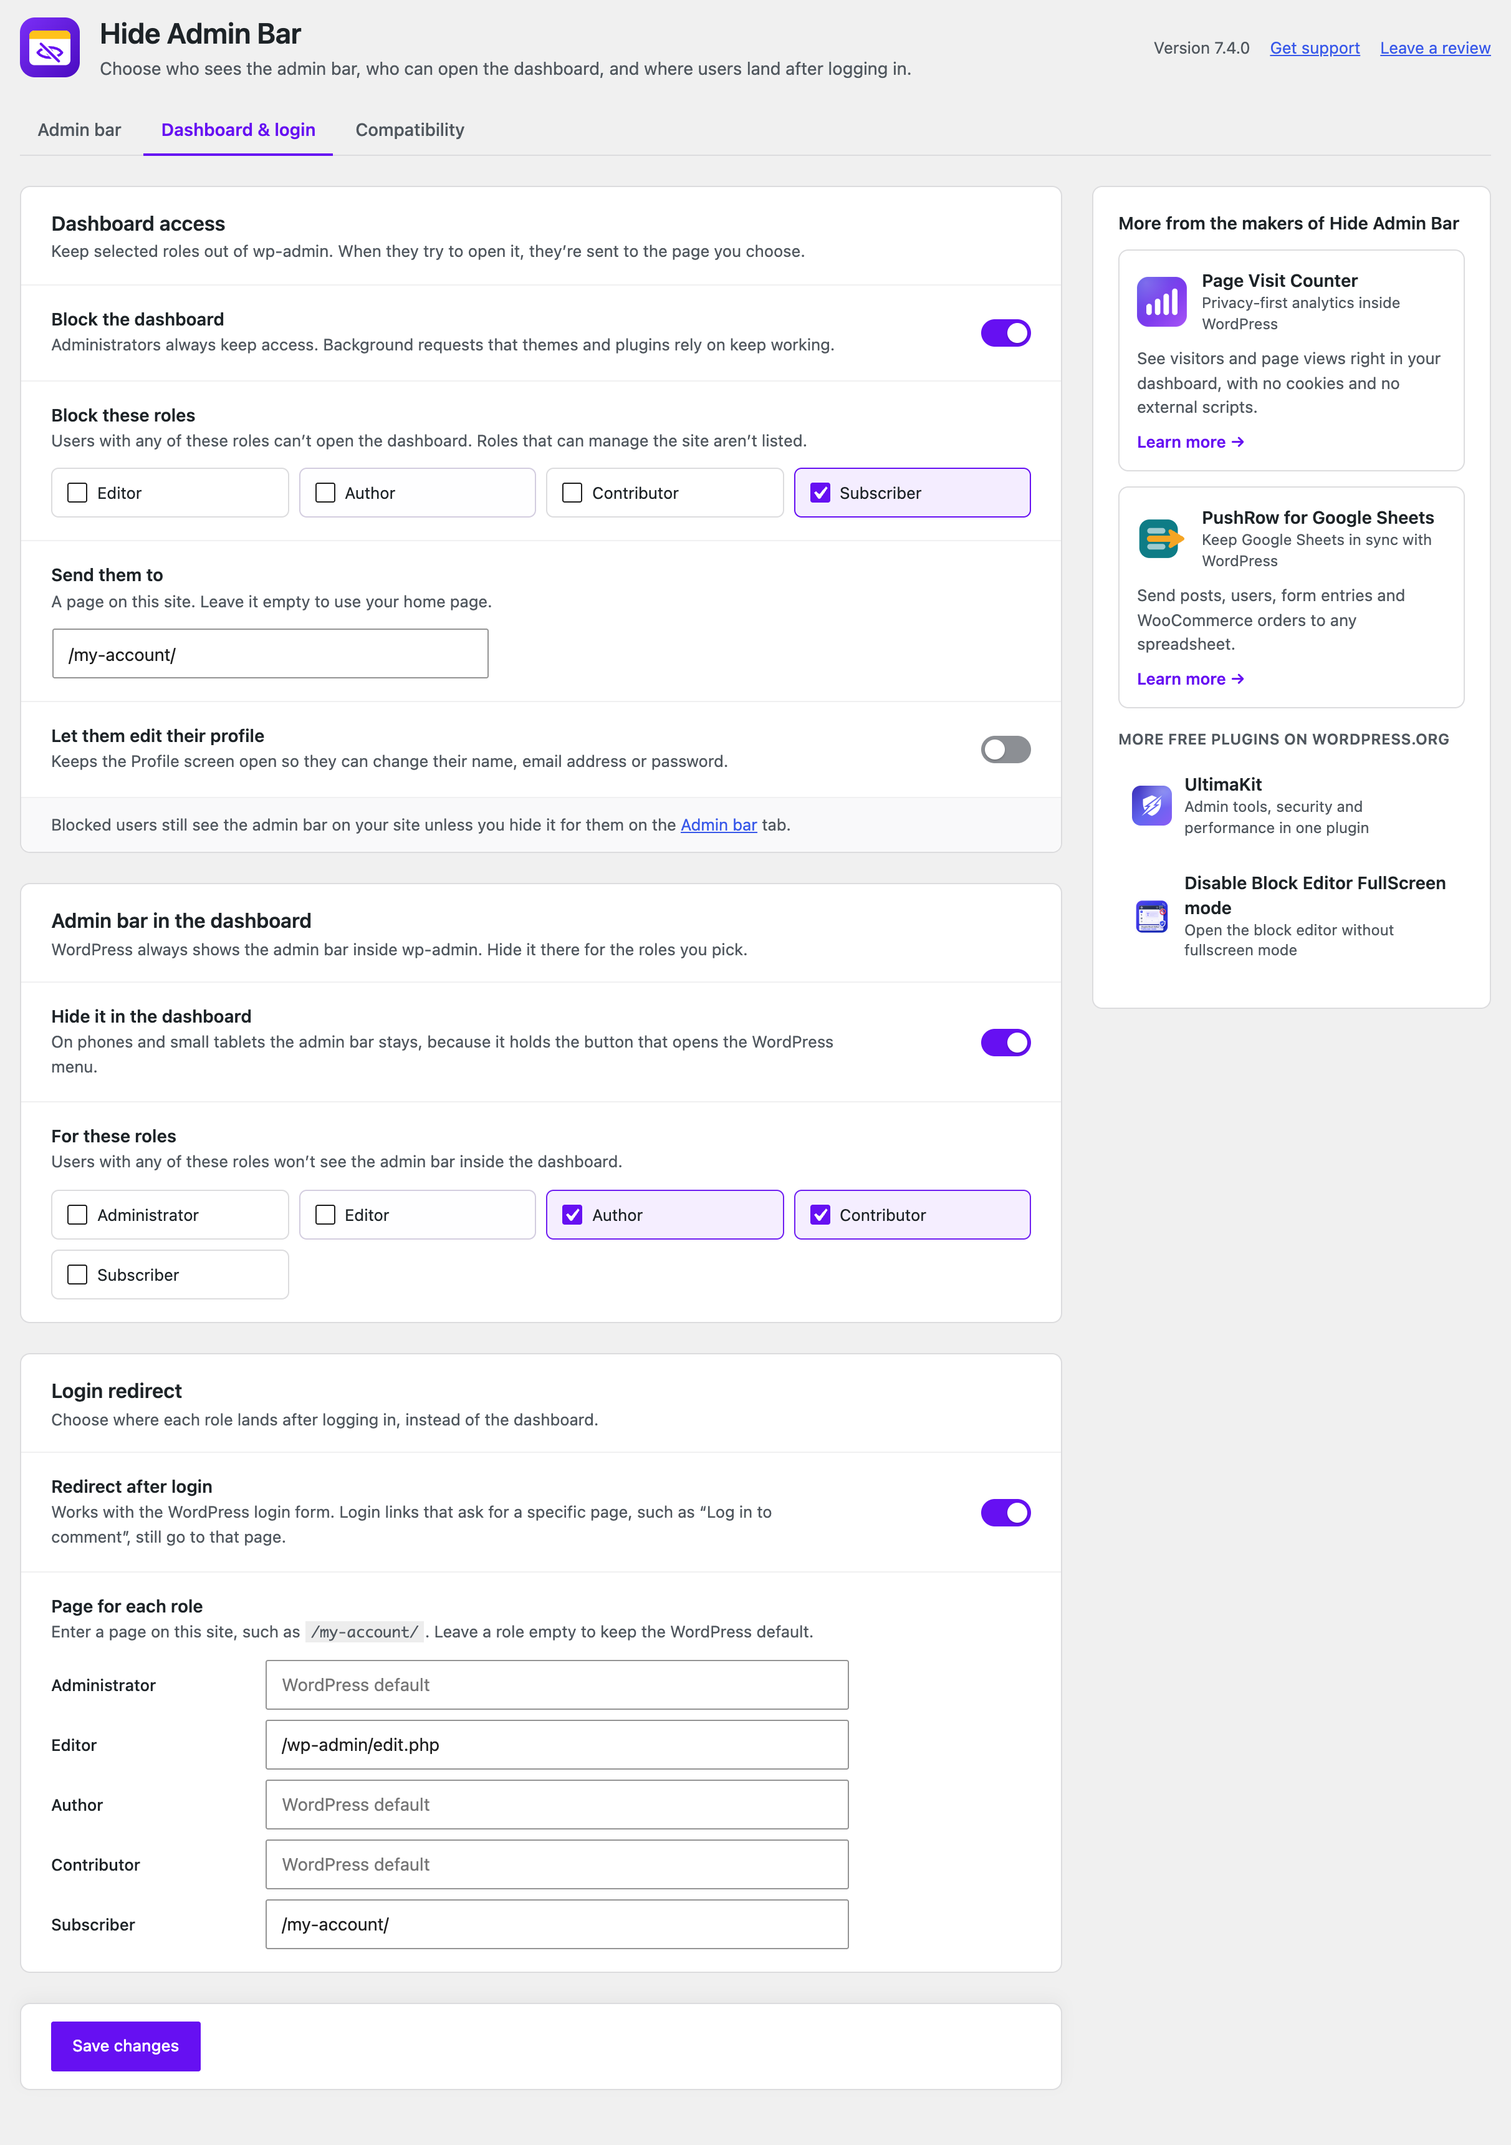
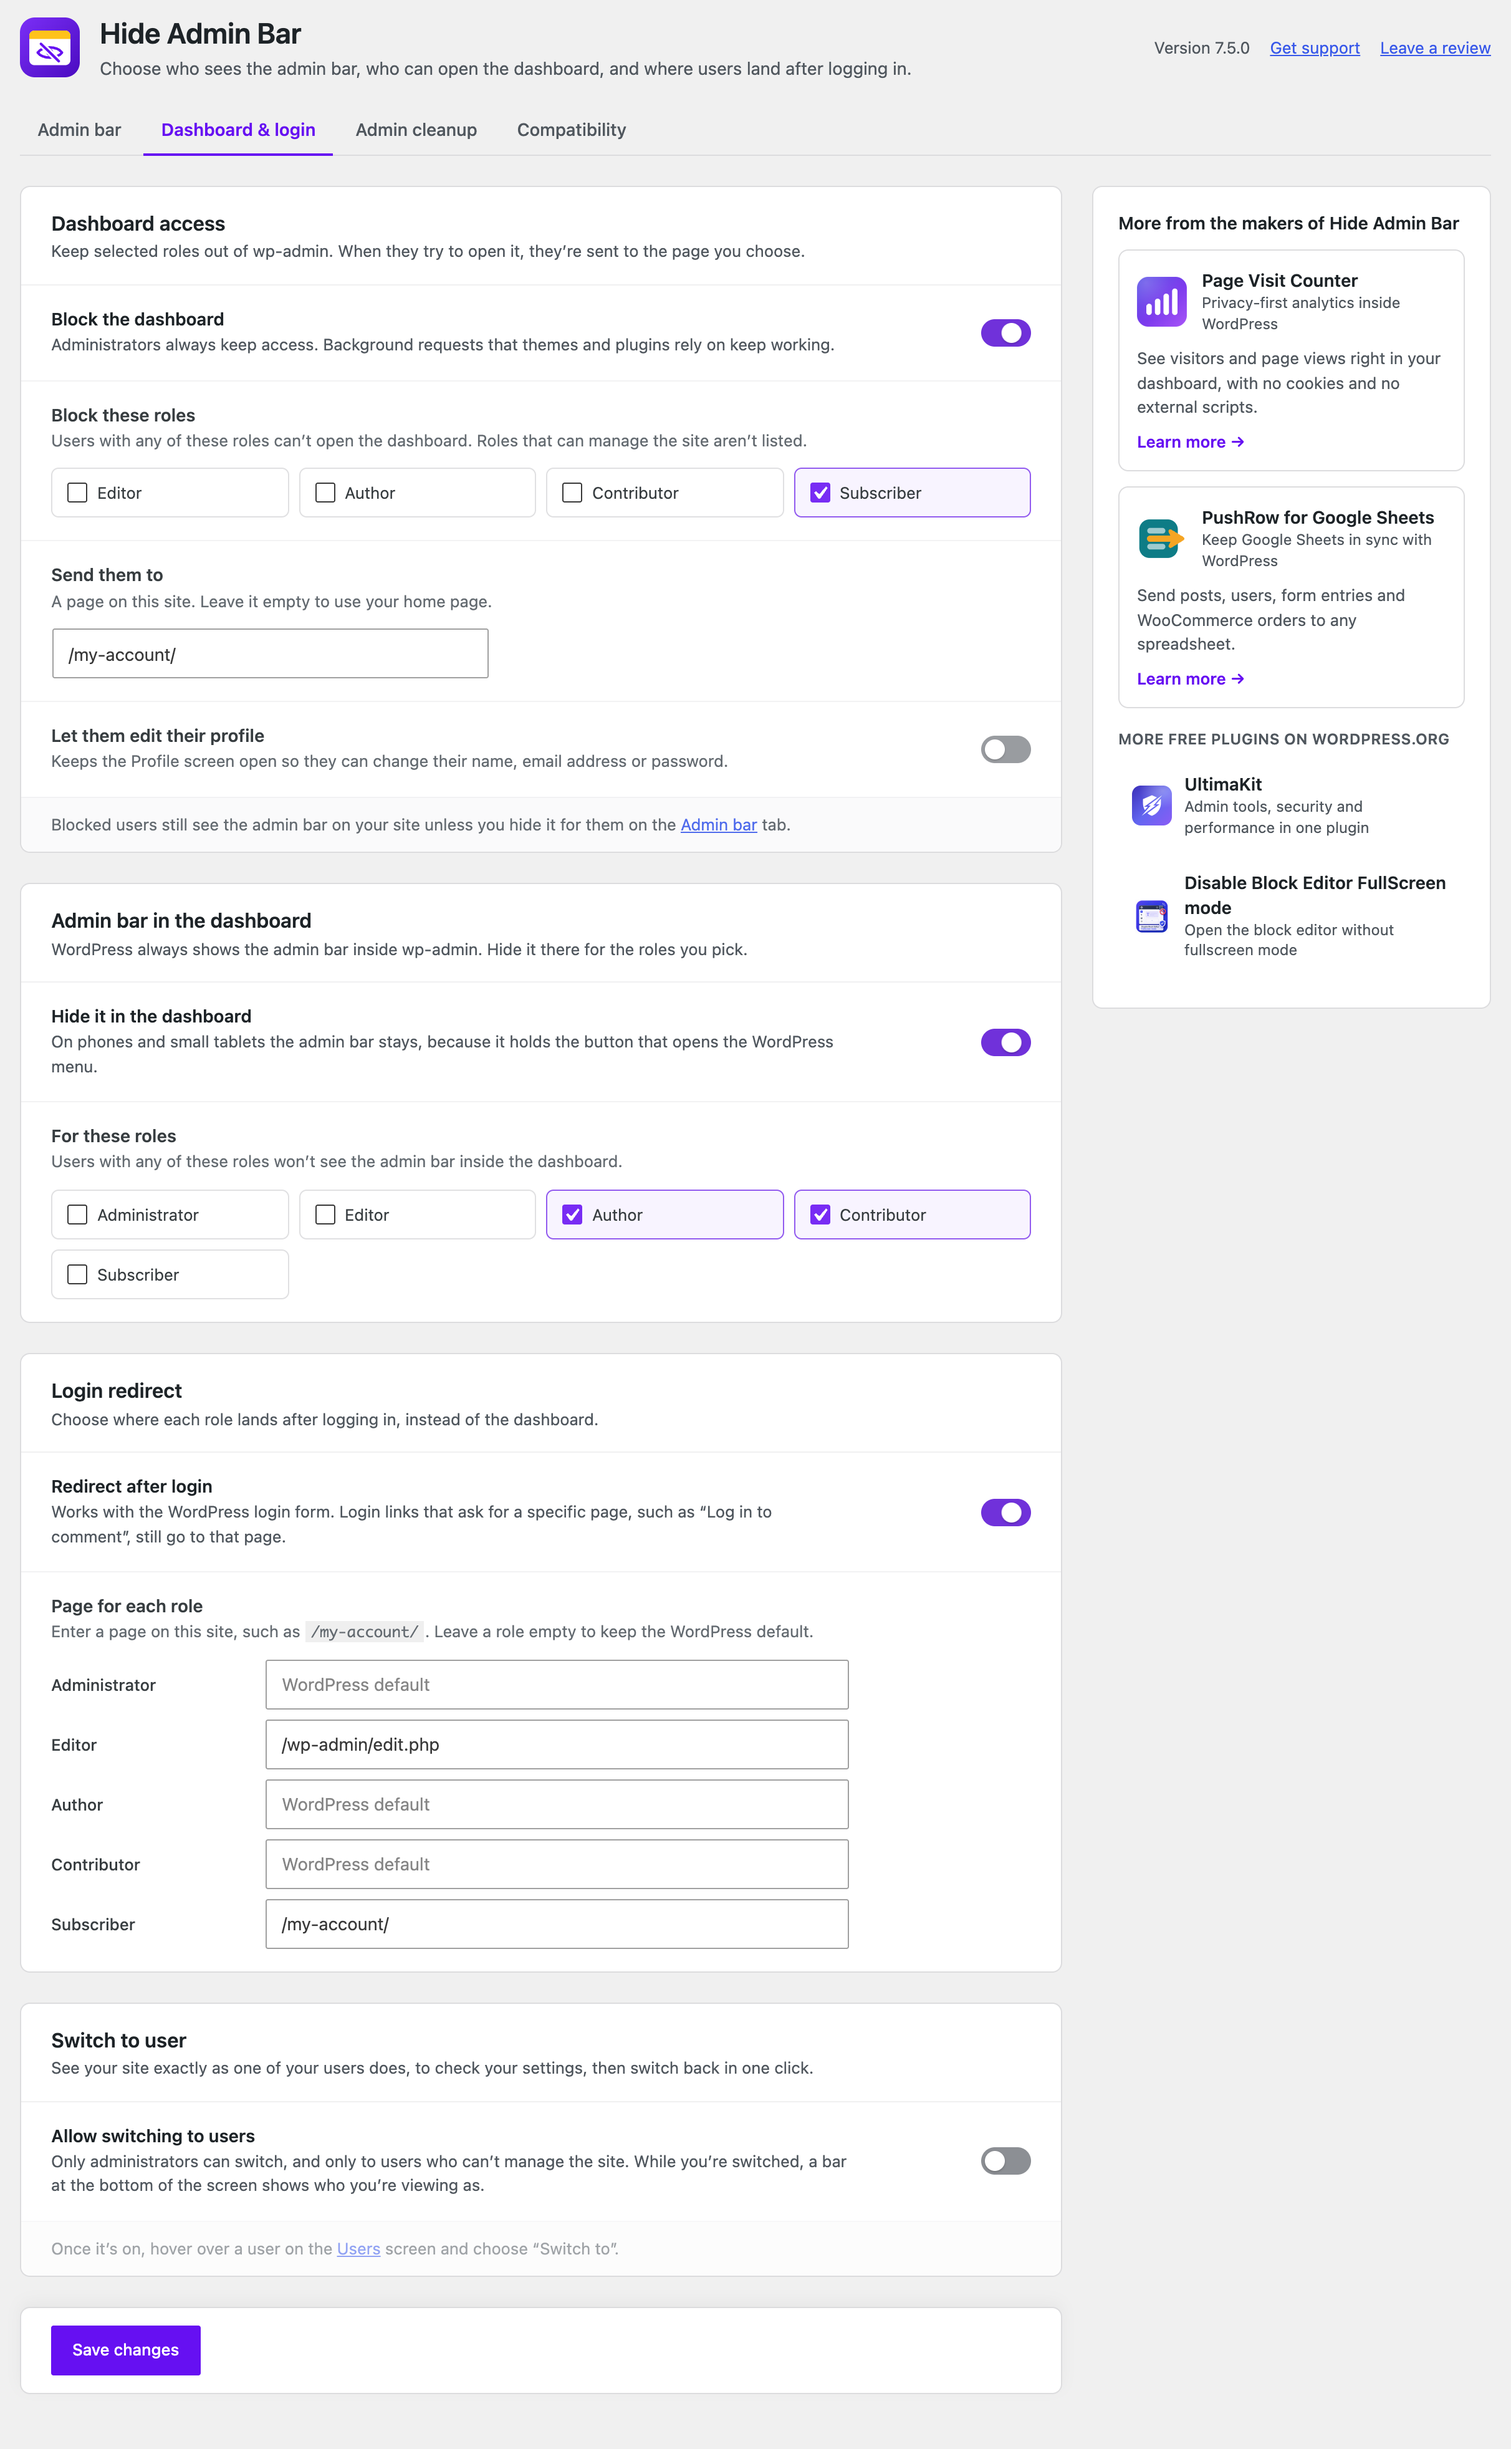
Prepare 7.5.0: version, readme, translation template, screenshots
- Version 7.5.0 in the plugin header, constant and Stable tag.
- Readme: Admin cleanup and Switch to user features, four new FAQs,
  changelog and upgrade notice.
- POT regenerated.
- Screenshot 1 and 3 updated for the new tab and card; new screenshot
  4 shows the Admin cleanup tab, rendered by the asset builder.

diff --git a/hide-admin-bar-based-on-user-roles.php b/hide-admin-bar-based-on-user-roles.php
@@ -12,7 +12,7 @@
  * Plugin Name:       Hide Admin Bar Based on User Roles
  * Plugin URI:        https://wordpress.org/plugins/hide-admin-bar-based-on-user-roles/
  * Description:       Hide the WordPress Admin Bar for specific user roles, capabilities, or guests. Lightweight and works out of the box.
- * Version:           7.4.0
+ * Version:           7.5.0
  * Author:            WPAnkit
  * Author URI:        https://wpankit.com/
  * License:           GPL-2.0+
@@ -45,7 +45,7 @@ if ( ! defined( 'WPINC' ) ) {
  */
 // Use the existing version constant if the free plugin defined it first.
 if ( ! defined( 'HIDE_ADMIN_BAR_BASED_ON_USER_ROLES' ) ) {
-	define( 'HIDE_ADMIN_BAR_BASED_ON_USER_ROLES', '7.4.0' );
+	define( 'HIDE_ADMIN_BAR_BASED_ON_USER_ROLES', '7.5.0' );
 }
 if ( ! function_exists( 'habbourp_fs' ) ) {
 	// Create a helper function for easy SDK access.

diff --git a/tools/wporg-assets/README.md b/tools/wporg-assets/README.md
@@ -18,7 +18,7 @@ WordPress.org** does it between releases, so `.wordpress-org/` must hold only th
 | `banner-1544x500.png` | 1544x500 | High-DPI banner |
 | `icon.svg` | vector | Plugin icon, used where supported |
 | `icon-256x256.png`, `icon-128x128.png` | | Icon fallbacks (required with an SVG icon) |
-| `screenshot-1.png` to `screenshot-3.png` | | Screenshots; captions come from `== Screenshots ==` in `README.txt` |
+| `screenshot-1.png` to `screenshot-4.png` | | Screenshots; captions come from `== Screenshots ==` in `README.txt` |
 
 ## Regenerating
 
